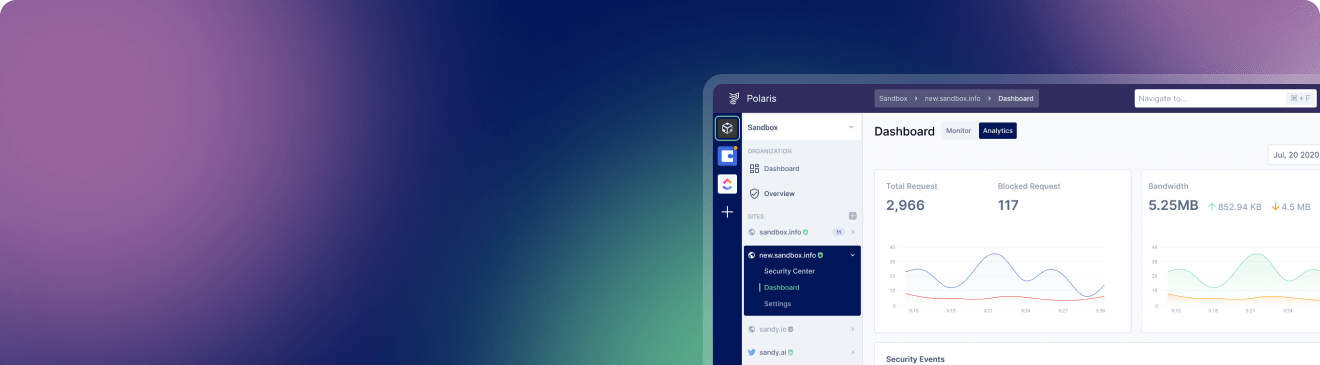
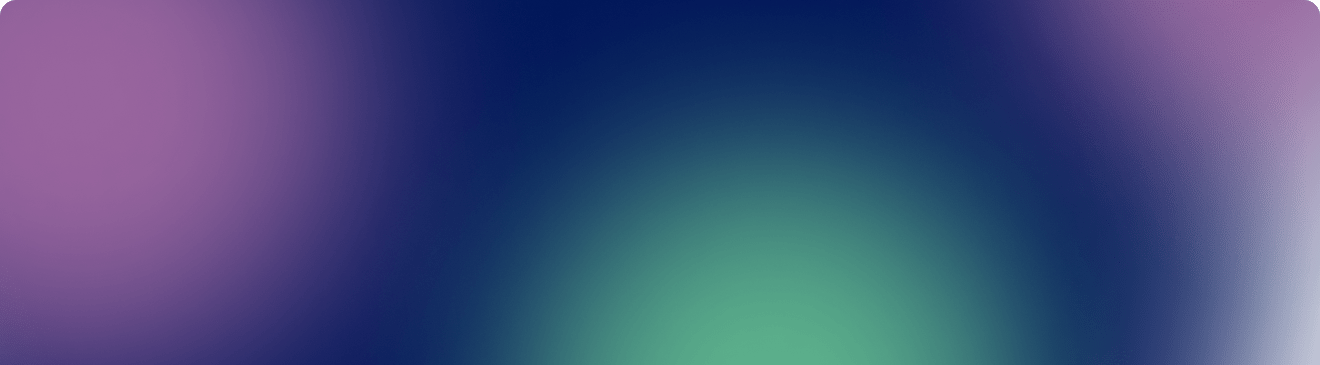
fix UI

diff --git a/layouts/home/HomeNewsletter.vue b/layouts/home/HomeNewsletter.vue
@@ -3,7 +3,15 @@
     <div class="app-width" :class="$style.bodyContainer">
       <h2>Sign up for our newsletter</h2>
       <h5>Be the first to receive new feature and product updates.</h5>
-      <p-button text="Sign up" @click="onClick"/>
+      <div class="row justify-content-center">
+        <p-input class="text-left"
+                 v-model.trim="email"
+                 type="email"
+                 required
+                 :hint="hintText"
+                 placeholder="Your Email"/>
+        <p-button :text="buttonText" @click="onClick"/>
+      </div>
     </div>
   </div>
 </template>
@@ -27,6 +35,18 @@
     margin-top 19px
     margin-bottom 49px
 
+  button
+    height fit-content
+    margin-left 24px
+
+  input
+    background: #374b61 !important
+    font-size: 1.125rem
+    border-radius: 4px;
+    width: 280px
+    height 52px
+    color white !important
+
 .textContainer
   padding-right 60px
 
@@ -35,14 +55,51 @@
 <script lang="ts">
 import {Component, Vue} from 'nuxt-property-decorator'
 import PButton from "~/components/PButton.vue";
+import PInput from "~/components/PInput.vue";
 
 @Component({
-  components: {PButton}
+  components: {PInput, PButton}
 })
 export default class HomeNewsletter extends Vue {
+  email: string = '';
+  hintText: string = '';
+  showHint: boolean = false;
+  isLoading: boolean = false;
 
-  onClick() {
-    window.open('https://polarisec.io/', '_blank');
+  get buttonText() {
+    return this.isLoading ? 'Sending...' : 'Subscribe';
+  }
+
+  validateEmail = (email) => {
+    return String(email)
+      .toLowerCase()
+      .match(
+        /^(([^<>()[\]\\.,;:\s@"]+(\.[^<>()[\]\\.,;:\s@"]+)*)|(".+"))@((\[[0-9]{1,3}\.[0-9]{1,3}\.[0-9]{1,3}\.[0-9]{1,3}\])|(([a-zA-Z\-0-9]+\.)+[a-zA-Z]{2,}))$/
+      );
+  };
+
+  async onClick() {
+    if (this.isLoading) return;
+    if (!this.email) {
+      this.hintText = 'This field is required.';
+      this.showHint = true;
+      return;
+    }
+    if (!this.validateEmail(this.email)) {
+      this.hintText = 'Please enter a valid email address.';
+      this.showHint = true;
+      return;
+    }
+    try {
+      this.isLoading = true;
+      let result = await this.$axios.$post(`https://polarisec.us4.list-manage.com/subscribe/post-json?u=696c092114cae4f72b6167d14&id=2b21421c4e&c=jQuery19002007047022959092_1644404259280&EMAIL=${this.email}&b_696c092114cae4f72b6167d14_2b21421c4e=&_=1644404259282`);
+      this.hintText = result.data.msg;
+      this.hintText = true;
+      this.isLoading = false;
+    } catch (e) {
+      await this.$router.replace('/404')
+    }
+    this.showHint = false;
   }
 
 }

diff --git a/layouts/pricing/PricingAddOns.vue b/layouts/pricing/PricingAddOns.vue
@@ -8,17 +8,17 @@
           Value added services allow you to further customize and enhance your web application protection capabilities.
         </div>
         <pricing-add-ons-table :is-monthly-type="isMonthlyType"/>
-        <h5 class="color-text-6 ml-4">Managed Security Services Add-on</h5>
+        <h5 class="color-text-6 ml-4 font-weight-bold">Managed Security Services Add-on</h5>
         <div class="body-2 ml-4 color-text-6">Take your proactive posture one step further by having Polaris stand watch over your web security. Our Security Operations Center (SOC) analysts will monitor your web activity for you, automatically mitigating threats in real-time. Allow us to monitor your web presence and serve as your guard so you can focus on what really matters - your people and your business.</div>
         <pricing-add-ons-service :is-monthly-type="isMonthlyType"/>
         <div class="row">
           <div class="col mr-4">
-            <h5 class="color-text-6 mx-4">Threat Intelligence Add-On</h5>
+            <h5 class="color-text-6 mx-4 font-weight-bold">Threat Intelligence Add-On</h5>
             <div class="body-2 color-text-6 mx-4">Increase your oversight into what is going on with your domain and the risks it faces. Real time intelligence let’s you know who is doing what, when they’re doing it, and where they’re doing it so that you can take action immediately.</div>
             <pricing-add-ons-threat-intelligence :is-monthly-type="isMonthlyType"/>
           </div>
           <div class="col ml-4">
-            <h5 class="color-text-6 mx-4">Zero Trust Access Add-On</h5>
+            <h5 class="color-text-6 mx-4 font-weight-bold">Zero Trust Access Add-On</h5>
             <div class="body-2 color-text-6 mx-4">Maintain greater control over your security posture by detailing who has access to your platform and what they can do with it.</div>
             <pricing-add-ons-zero-trust-access :is-monthly-type="isMonthlyType"/>
           </div>

diff --git a/layouts/home/HomeSlider.vue b/layouts/home/HomeSlider.vue
@@ -16,10 +16,15 @@
           </div>
         </template>
       </carousel>
-      <div :class="$style.seeItContainer">
-        <h2>See it in action</h2>
-        <h5 :class="$style.actionText">Request a free demo today and stay ahead of <br> the cyberthreat evolution.</h5>
-        <p-button text="Request a Demo" @click="onClick"/>
+      <div :class="$style.seeItContainer" class="row">
+        <div class="col-sm-6">
+          <h2>See it in action</h2>
+          <h5 :class="$style.actionText">Request a free demo today and stay ahead of <br> the cyberthreat evolution.</h5>
+          <p-button text="Request a Demo" @click="onClick"/>
+        </div>
+        <div class="col-sm-6 px-0" :class="$style.dashboardImg">
+          <img src="@/assets/images/home/dashboard-lg.png" height="333" alt="">
+        </div>
       </div>
     </div>
   </div>
@@ -42,14 +47,14 @@
 
 .sliderItem
   padding 10px 22px
-  background-color: $brand-2
+  background-color: white
   border-radius 8px
 
 .sliderContainer
   padding-bottom: 115px
 
 .seeItContainer
-  padding 84px 0 67px 60px
+  padding 84px 0 0 60px
   border-top-left-radius 10px
   border-top-right-radius 10px
   background-image url("@/assets/images/home/see-it-in-action.png")
@@ -61,6 +66,20 @@
   margin-top 19px
   margin-bottom: 39px;
   font-weight 500
+
+.dashboardImg
+  border-top-left-radius 12px
+  border-top 15px solid #ffffff33
+  border-left 15px solid #ffffff33
+
+  img
+    border-top-left-radius 12px
+    margin-right 10px
+    image-rendering: -moz-crisp-edges;         /* Firefox */
+    image-rendering:   -o-crisp-edges;         /* Opera */
+    image-rendering: -webkit-optimize-contrast;/* Webkit (non-standard naming) */
+    image-rendering: crisp-edges;
+    -ms-interpolation-mode: nearest-neighbor;
 
 </style>
 

diff --git a/layouts/pricing/PricingFAQ.vue b/layouts/pricing/PricingFAQ.vue
@@ -18,7 +18,7 @@
         <div :class="$style.faqContainer" class="row">
           <div class="col mr-4">
             <div class="body-2 color-text-8 font-weight-bold">I’m not sure which package I should get?</div>
-            <div :class="$style.faqAnswer">You can always just send us a message <span><nuxt-link to="/contact">here</nuxt-link></span> or <span>you can answer a few simple <nuxt-link to="/">questions</nuxt-link></span> for a recommendation.</div>
+            <div :class="$style.faqAnswer">You can always just send us a message <nuxt-link to="/contact">here</nuxt-link> or you can answer a few simple <nuxt-link to="/">questions</nuxt-link> for a recommendation.</div>
           </div>
           <div class="col ml-4">
             <div class="body-2 color-text-8 font-weight-bold">Does this mean that I’ll be protected from all cyber attacks?</div>
@@ -40,9 +40,6 @@
   hr
     border: 0.5px solid $text-8
     margin 19px 24px 28px
-
-  span
-    font-style italic
 
   a
     color $brand-2

diff --git a/components/PInput.vue b/components/PInput.vue
@@ -1,0 +1,31 @@
+<template>
+  <div>
+    <b-form-input :type="type"
+                  :required="required"
+                  :value="value"
+                  :placeholder="placeholder"
+                  class="input-normal"
+                  @input="$emit('input', $event)"/>
+    <small style="color: #8d8989">{{ hint }}</small>
+  </div>
+</template>
+
+<style module lang="stylus">
+
+</style>
+
+<script lang="ts">
+import {Vue, Component, Prop} from "nuxt-property-decorator";
+
+@Component({})
+export default class PInput extends Vue {
+  @Prop({type:String, default: ''}) value: string;
+  @Prop({type:String}) type: string;
+  @Prop({type:String}) placeholder: string;
+  @Prop({type:String}) hint: string;
+  @Prop({type:Boolean, default: false}) required: boolean;
+
+}
+</script>
+
+

diff --git a/components/PNavbar.vue b/components/PNavbar.vue
@@ -22,7 +22,7 @@
 
       <!-- Right aligned nav items -->
       <b-navbar-nav class="ml-auto">
-        <b-nav-item href="#" class="active mr-4 pr-2">Login</b-nav-item>
+        <b-nav-item href="https://polarisec.io/" target="_blank" class="active mr-4 pr-2">Login</b-nav-item>
         <p-button :gradient="3" text="Get Started" :show-icon="false" class="mr-4" @click="onClick"/>
         <div class="d-lg-flex justify-content-center align-items-center ml-2 pl-1">
           <b-avatar variant="info" :size="24" src="@/assets/icons/eng.png"></b-avatar>

diff --git a/layouts/pricing/PricingOverview.vue b/layouts/pricing/PricingOverview.vue
@@ -316,7 +316,7 @@ export default class PricingOverview extends Vue {
           ],
         },
         {
-          title: 'PI Blacklist/Whitelist',
+          title: 'IP Blacklist/Whitelist',
           info: 'List specific IP addresses that are blocked or allowed',
           isExpand: false,
           supports: [

diff --git a/layouts/pricing/PricingAddOnsService.vue b/layouts/pricing/PricingAddOnsService.vue
@@ -386,7 +386,7 @@ export default class PricingAddOnsService extends Vue {
           ],
         },
         {
-          title: 'Support for Executive Management meeting',
+          title: 'Support for Executive Management meetings',
           supports: [
             {
               isSupport: false,

diff --git a/pages/whyus.vue b/pages/whyus.vue
@@ -68,7 +68,7 @@ export default class WhyUs extends Vue {
   analyticContent: any[] = [
     {
       title: '800%',
-      text: 'In 2021, Web Application attacks are up <b>800%</b>',
+      text: 'In 2021, Web Application attacks are up <b>800%</b>.',
       source: '(source: CDNetworks)',
     },
     {
